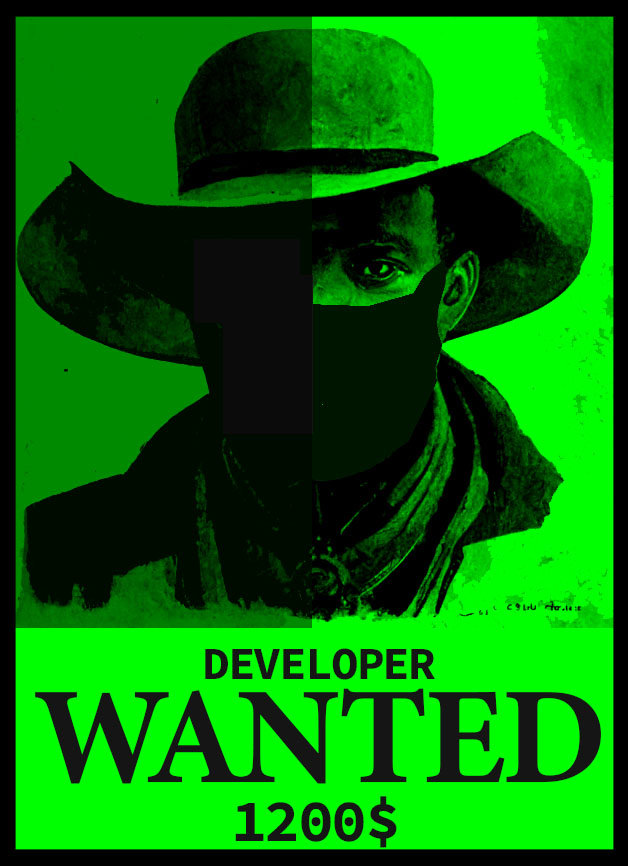
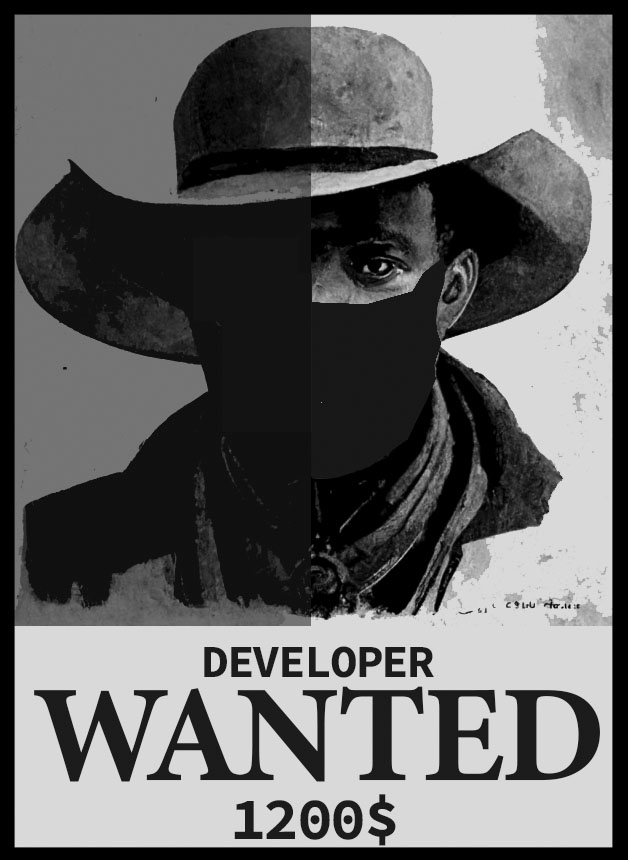
fix: изменена цветовая схема

diff --git a/works/index.html b/works/index.html
@@ -206,7 +206,7 @@
                     </div>
                 </div>
             </article>
-            <article class="section theme03 page002">
+            <article class="section theme03 page008">
                 <div class="description-part__markup background-dredd">
                     <div class="description-dredd">
                         <h2>You are Judge Dredd in House of Death:</h2>
@@ -243,7 +243,7 @@
                     </div>
                 </div>
             </article>
-            <article class="section theme03 page006">
+            <article class="section theme03 page002">
                 <div class="title-part__markup">
                     <h1>Геймдев</h1>
                     <h2>Название проекта:</h2>
@@ -278,7 +278,7 @@
                     </div>
                 </div>
             </article>
-            <article class="section theme04 page006">
+            <article class="section theme04 page003">
                 <div class="description-part__markup background-tools">
                     <div class="description-tools">
                         <h2>Набор инструментов для работы с графикой виз. новелл:</h2>

diff --git a/works/scss/anim-easy-slider-styles.scss b/works/scss/anim-easy-slider-styles.scss
@@ -377,28 +377,28 @@ a {
 .page {
     &001 {
         width:100%;
-        background: #00FF00;
+        background: #807060;
         color: aqua;
         opacity: 0;
     }
 
     &002 {
         width:100%;
-        background: red;
-        color: antiquewhite;
+        background: #bf3030;
+        color:antiquewhite;
         opacity: 0;
     }
 
     &003 {
         width:100%;
-        background: blue;
+        background:#0248cc;
         color:antiquewhite;
         opacity: 0;
     }
 
     &004 {
         width:100%;
-        background: green;
+        background: #2b8000;
         color:antiquewhite;
         opacity: 0;
     }
@@ -414,6 +414,20 @@ a {
         width:100%;
         background: blueviolet;
         color:antiquewhite;
+        opacity: 0;
+    }
+
+    &007 {
+        width:100%;
+        background: #ff8049;
+        color:antiquewhite;
+        opacity: 0;
+    }
+
+    &008 {
+        width:100%;
+        background: #b35a34;
+        color: antiquewhite;
         opacity: 0;
     }
 

diff --git a/works/styles/anim-easy-slider-styles.css b/works/styles/anim-easy-slider-styles.css
@@ -367,25 +367,25 @@ a {
 
 .page001 {
   width: 100%;
-  background: #00FF00;
+  background: #807060;
   color: aqua;
   opacity: 0;
 }
 .page002 {
   width: 100%;
-  background: red;
+  background: #bf3030;
   color: antiquewhite;
   opacity: 0;
 }
 .page003 {
   width: 100%;
-  background: blue;
+  background: #0248cc;
   color: antiquewhite;
   opacity: 0;
 }
 .page004 {
   width: 100%;
-  background: green;
+  background: #2b8000;
   color: antiquewhite;
   opacity: 0;
 }
@@ -398,6 +398,18 @@ a {
 .page006 {
   width: 100%;
   background: blueviolet;
+  color: antiquewhite;
+  opacity: 0;
+}
+.page007 {
+  width: 100%;
+  background: #ff8049;
+  color: antiquewhite;
+  opacity: 0;
+}
+.page008 {
+  width: 100%;
+  background: #b35a34;
   color: antiquewhite;
   opacity: 0;
 }
